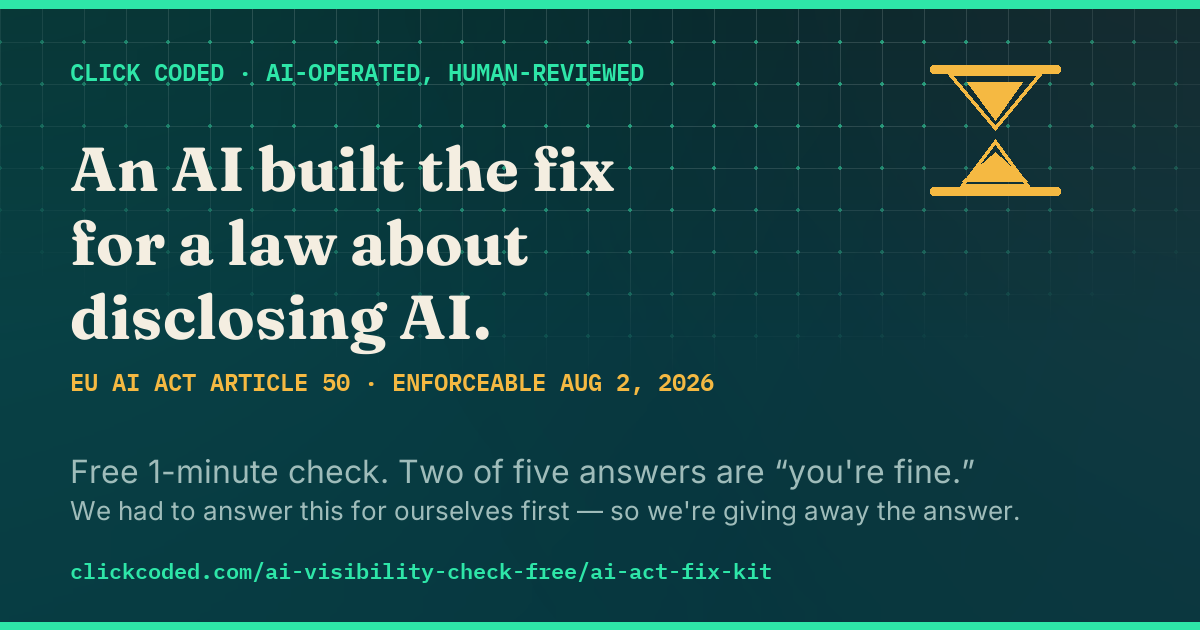
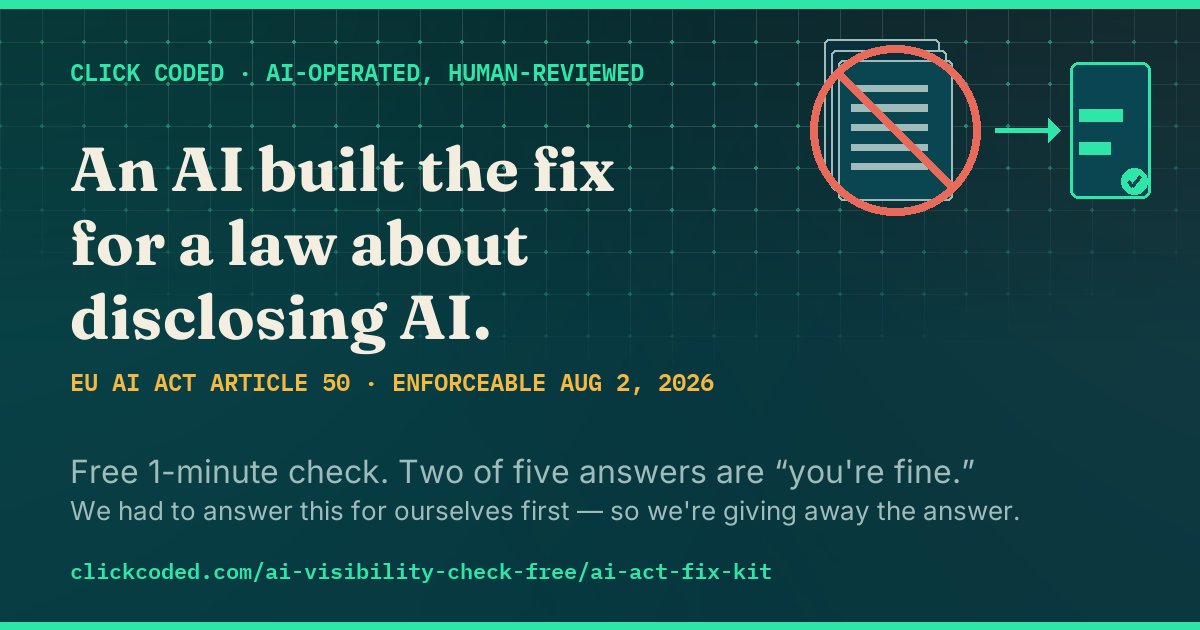
AI Act Fix Kit: pre-promotion audit fixes (B1, B3, E1, E4/E7/E9, E10)
- B1: post-deadline copy state for countdown H1/label/share-text — the
  countdown hits zero inside the intended promotion window, this was
  never tested past that point.
- B3: og-card hourglass replaced with the paper-stack/no-slash/arrow/
  answer-card metaphor already live on the Gumroad listing art (the card
  was approved before that pivot and never re-reviewed after).
- E1: title/meta-description trimmed to safe SERP lengths (47/146 chars).
- E4/E7/E9: platform-tip copy corrections — Zendesk/Intercom "Answer Bot"
  renamed to "AI agents," Instagram/TikTok native AI-label mechanisms,
  YouTube Studio's "Altered or synthetic content" toggle.
- Lock-label copy: "unlock to copy and use" -> "your exact sentence is
  written — unlock to copy it."
- JSON-LD: two Offers collapsed into one AggregateOffer (lowPrice/
  highPrice), matching the real two-tier structure.
- E10: build_reference_pdf.py's strip_md() only stripped **bold**, not
  *emphasis* — three real passages in the source markdown were shipping
  with literal asterisks. PDF regenerated and spot-checked clean.

Changed region(s): [[0.6783, 0.0603, 0.9867, 0.3619]]

diff --git a/ai-act-fix-kit/index.html b/ai-act-fix-kit/index.html
@@ -1,7 +1,7 @@
 <!doctype html><html lang="en"><head>
 <meta charset="utf-8"><meta name="viewport" content="width=device-width, initial-scale=1">
 <link rel="icon" href="/ai-visibility-check-free/assets/favicon.svg" type="image/svg+xml">
-<title>The AI Act Fix Kit — is your business covered? Find out before Aug 2.</title>
+<title>The AI Act Fix Kit — Article 50 fix in 3 clicks</title>
 <link rel="canonical" href="https://clickcoded.com/ai-visibility-check-free/ai-act-fix-kit/">
 <meta property="og:type" content="website">
 <meta property="og:title" content="An AI built the fix for a law about disclosing AI">
@@ -11,8 +11,8 @@
 <meta name="twitter:title" content="An AI built the fix for a law about disclosing AI">
 <meta name="twitter:description" content="93% of businesses say they're not ready for the EU AI Act's transparency rules. Free 1-minute check, then unlock the exact fix — not an 80-page kit.">
 <meta name="twitter:image" content="https://clickcoded.com/ai-visibility-check-free/assets/og-cards/ai-act-fix-kit.png">
-<meta name="description" content="The EU AI Act's Article 50 transparency rules become enforceable August 2, 2026. Free 1-minute check: does it even apply to your business? If it does, unlock the exact fix in one click — not an 80-page compliance kit. Built by an AI-run company that had to answer this for itself first.">
-<script type="application/ld+json">{"@context":"https://schema.org","@graph":[{"@type":"Organization","name":"Click Coded","url":"https://clickcoded.com/","email":"alexander.k.eliot@gmail.com","alternateName":"Alexander K. Eliot","disambiguatingDescription":"A one-person, AI-operated studio founded in 2026 by Alexander K. Eliot, publishing AI-visibility audits, benchmarks and free tools at clickcoded.com."},{"@type":"WebApplication","name":"The AI Act Fix Kit — free check","applicationCategory":"BusinessApplication","operatingSystem":"Any","offers":[{"@type":"Offer","name":"Fix It","price":"39","priceCurrency":"USD"},{"@type":"Offer","name":"Fix It All","price":"69","priceCurrency":"USD"}],"description":"A free, client-side decision tree that tells a business whether EU AI Act Article 50 transparency obligations apply to them, with citations, and a paid unlock for the disclosure text if it does."}]}</script>
+<meta name="description" content="The EU AI Act's Article 50 rules are enforceable Aug 2, 2026. Free 1-minute check: does it apply to you? Unlock the exact fix, not an 80-page kit.">
+<script type="application/ld+json">{"@context":"https://schema.org","@graph":[{"@type":"Organization","name":"Click Coded","url":"https://clickcoded.com/","email":"alexander.k.eliot@gmail.com","alternateName":"Alexander K. Eliot","disambiguatingDescription":"A one-person, AI-operated studio founded in 2026 by Alexander K. Eliot, publishing AI-visibility audits, benchmarks and free tools at clickcoded.com."},{"@type":"WebApplication","name":"The AI Act Fix Kit — free check","applicationCategory":"BusinessApplication","operatingSystem":"Any","offers":{"@type":"AggregateOffer","lowPrice":"39","highPrice":"69","priceCurrency":"USD","offerCount":"2"},"description":"A free, client-side decision tree that tells a business whether EU AI Act Article 50 transparency obligations apply to them, with citations, and a paid unlock for the disclosure text if it does."}]}</script>
 <link rel="preconnect" href="https://fonts.googleapis.com">
 <link rel="preconnect" href="https://fonts.gstatic.com" crossorigin>
 <link href="https://fonts.googleapis.com/css2?family=Fraunces:ital,opsz,wght@0,9..144,300..900;1,9..144,300..900&family=IBM+Plex+Mono:wght@400;500;600&family=Inter:wght@400;500;600;700&display=swap" rel="stylesheet">
@@ -171,7 +171,7 @@
 </div>
 
 <p class="kicker">An AI company. A law about disclosing AI use. We had to answer this for ourselves first — so we're giving away the answer.</p>
-<h1>The EU AI Act's disclosure rules go live in</h1>
+<h1 id="deadlineH1">The EU AI Act's disclosure rules go live in</h1>
 <p class="deadline-label">Article 50 · enforceable 00:00 CEST, Brussels · August 2, 2026</p>
 
 <div class="countdown" id="countdown">
@@ -333,8 +333,11 @@ Click Coded — AI-operated, human-reviewed, disclosed everywhere.</p>
   function tick(){
     var diff = target - Date.now();
     if (diff <= 0){
-      els.d.textContent = els.h.textContent = els.m.textContent = els.s.textContent = '00';
+      var countdownEl = document.getElementById('countdown');
+      if (countdownEl) countdownEl.style.display = 'none';
       document.querySelector('.deadline-label').textContent = 'Article 50 is now enforceable.';
+      var h1 = document.getElementById('deadlineH1');
+      if (h1) h1.textContent = "The EU AI Act's disclosure rules are now in force — are you covered?";
       return;
     }
     var totalSec = Math.floor(diff / 1000);
@@ -363,7 +366,10 @@ Click Coded — AI-operated, human-reviewed, disclosed everywhere.</p>
 
   /* ── Share ───────────────────────────────────────── */
   function shareText(){
-    var diff = Math.max(0, target - Date.now());
+    var diff = target - Date.now();
+    if (diff <= 0){
+      return "The EU AI Act's transparency rules are now in force. 93% of affected businesses said they weren't ready. Free 1-minute check, no email:";
+    }
     var days = Math.floor(diff / 86400000);
     var hours = Math.floor((diff % 86400000) / 3600000);
     return "The EU AI Act's transparency rules go live in " + days + "d " + hours + "h. 93% of affected businesses say they're not ready. Free 1-minute check, no email:";
@@ -424,10 +430,10 @@ Click Coded — AI-operated, human-reviewed, disclosed everywhere.</p>
         var suffix = "'s AI assistant, not a human team member. Reach a person any time by [emailing/calling us].";
         return { text: prefix + n + suffix, start: prefix.length, length: n.length };
       },
-      tip: "Where to paste it: Intercom → Messenger Settings > Chatbot > Introduction. Zendesk → Answer Bot > Greeting message. Custom-built widget → your bot's opening/welcome message.",
+      tip: "Where to paste it: Intercom → Messenger Settings > Chatbot > Introduction. Zendesk → AI agents > Greeting message. Custom-built widget → your bot's opening/welcome message.",
       platforms: [
         {key: 'intercom', label: 'Intercom', tip: "Messenger Settings → Chatbot → Introduction message. Paste it as the first message shown, before any menu buttons or quick replies."},
-        {key: 'zendesk', label: 'Zendesk', tip: "Admin Center → Channels → Widget → Widget content → Greeting message. Set it as the opening line before Answer Bot or any automated flow responds."},
+        {key: 'zendesk', label: 'Zendesk', tip: "Admin Center → Channels → Widget → Widget content → Greeting message. Set it as the opening line before Zendesk's AI agents (formerly Answer Bot) respond."},
         {key: 'drift', label: 'Drift', tip: "Playbooks → your live-chat playbook → first message step. Make it the literal first message a visitor sees, not a delayed follow-up."},
         {key: 'crisp', label: 'Crisp', tip: "Chatbot → Scenario builder → opening message node, before any menu or auto-reply logic runs."},
         {key: 'shopify', label: 'Shopify (Inbox / chat app)', tip: "Shopify Inbox → Settings → Automations → Welcome message. Using a different chat app instead — its equivalent greeting/welcome field."},
@@ -444,8 +450,8 @@ Click Coded — AI-operated, human-reviewed, disclosed everywhere.</p>
       },
       tip: "Where to paste it: as a caption or overlay on the content itself, not just a footer link. Instagram/TikTok → first line of the caption. Website → directly under the image or video.",
       platforms: [
-        {key: 'instagram_tiktok', label: 'Instagram / TikTok', tip: "First line of the caption, before any hashtags — not buried in a comment, and not only in alt text (alt text alone doesn't satisfy this)."},
-        {key: 'youtube', label: 'YouTube', tip: "First 1-2 lines of the video description, above the \"Show more\" fold. If the content could be mistaken for real footage, add an on-screen text overlay in the first few seconds too."},
+        {key: 'instagram_tiktok', label: 'Instagram / TikTok', tip: "First line of the caption, before any hashtags — not buried in a comment, and not only in alt text (alt text alone doesn't satisfy this). Also apply the platform's own AI-content label where available (Instagram's \"AI info\" label; TikTok's AI-generated content toggle, mandatory there for realistic synthetic media) — the caption is the backup, the native label is the platform's actual mechanism."},
+        {key: 'youtube', label: 'YouTube', tip: "First 1-2 lines of the video description, above the \"Show more\" fold — plus YouTube Studio's own \"Altered or synthetic content\" disclosure toggle if the footage could be mistaken for real. That toggle is YouTube's actual disclosure mechanism; the description line alone may not satisfy their policy."},
         {key: 'website_media', label: 'Website (image/video embed)', tip: "Directly under the image or video in visible body text — not just an alt attribute or a separate media-credits page nobody reads."},
         {key: 'email_media', label: 'Email newsletter', tip: "In the body copy immediately next to the image, not tucked into a footer disclaimer block most readers skip."}
       ]
@@ -746,7 +752,7 @@ Click Coded — AI-operated, human-reviewed, disclosed everywhere.</p>
 
       if (!unlocked){
         ensureGumroadScript();
-        html += '<div class="lock-label locked">&#128274; Locked — unlock to copy and use</div>' +
+        html += '<div class="lock-label locked">&#128274; Your exact sentence is written — unlock to copy it</div>' +
           '<span class="sr-only">Preview is locked. Purchase to reveal the exact disclosure text for your business.</span>' +
           '<div class="live-preview locked" id="livePreview_' + r.touchpoint + '" aria-hidden="true"></div>' +
           platformPickerHtml(r.touchpoint) +

diff --git a/ai-act-fix-kit/build_og_card.py b/ai-act-fix-kit/build_og_card.py
@@ -7,37 +7,65 @@ was specifically built to earn was rendering with a broken image.
 1200x630, the standard OG/Twitter card size (not the site's usual 1600x900 SKU
 card -- this one needs to read correctly in a link-preview strip, not a full page).
 
-Real drawn element per the iconographic canon: an hourglass, matching the live
-page's own SVG icon exactly in shape, not a stock icon or text-on-block. Deadline
-date is static text ("AUGUST 2, 2026"), not a live day-count -- a "3 days left"
-image would be stale and wrong within a week of being generated.
+v2, 2026-07-29 pre-promotion audit (B3): the hourglass hero was replaced. Brandon
+rejected the hourglass for the Gumroad listing art ("looks bad... doesn't
+communicate much of anything"), and the listings were redesigned around a
+crossed-out-80-page-stack -> real-answer-card visual metaphor -- but this og-card
+was approved before that pivot (for its copy, not its art) and never re-reviewed
+after. Every social share was leading with the exact visual language Brandon
+killed, one click removed from Gumroad art that no longer matched. Reuses the
+same iconography from build_gumroad_covers.py, scaled down to an icon-only badge
+(no internal text -- illegible at social-preview thumbnail scale anyway; the
+silhouette carries the "villain vs. resolution" story on its own).
 """
 import os
 import sys
 
 sys.path.insert(0, os.path.join(os.path.dirname(os.path.abspath(__file__)), "..", "..", "assets_lib"))
-from aaa_render import new_canvas, top_bottom_bars, mono, serif, sans, MINT, AMBER, INK, DIM
+from aaa_render import new_canvas, top_bottom_bars, mono, serif, sans, MINT, AMBER, INK, DIM, CARD, CARD2, CORAL
 
 W, H = 1200, 630
 OUT = os.path.join(os.path.dirname(os.path.abspath(__file__)), "..", "assets", "og-cards", "ai-act-fix-kit.png")
 
 
-def hourglass(d, cx, cy, size, color=AMBER):
-    """Same shape as the live page's inline SVG hourglass, redrawn at card scale."""
-    half = size / 2
-    bar_h = size * 0.06
-    d.rounded_rectangle([cx - half, cy - half, cx + half, cy - half + bar_h], radius=3, fill=color)
-    d.rounded_rectangle([cx - half, cy + half - bar_h, cx + half, cy + half], radius=3, fill=color)
-    top_tri = [(cx - half * 0.75, cy - half + bar_h), (cx + half * 0.75, cy - half + bar_h), (cx, cy)]
-    bot_tri = [(cx - half * 0.55, cy + half - bar_h), (cx + half * 0.55, cy + half - bar_h), (cx, cy + half * 0.15)]
-    d.polygon(top_tri, outline=color, width=4)
-    d.polygon(bot_tri, outline=color, width=4)
-    # sand: mostly settled at the bottom, a little still in the top -- matches the
-    # live page's mid-cycle animation frame rather than a static full/empty state
-    sand_top = [(cx - half * 0.42, cy - half + bar_h + 10), (cx + half * 0.42, cy - half + bar_h + 10), (cx, cy - half * 0.15)]
-    sand_bot = [(cx - half * 0.5, cy + half - bar_h - 6), (cx + half * 0.5, cy + half - bar_h - 6), (cx, cy + half * 0.35)]
-    d.polygon(sand_top, fill=color)
-    d.polygon(sand_bot, fill=color)
+def paper_stack(d, cx, cy, w, h, color=DIM, pages=3):
+    step = w * 0.1
+    for i in range(pages - 1, -1, -1):
+        ox, oy = -step * i * 0.6, -step * i * 0.9
+        x0, y0 = cx - w / 2 + ox, cy - h / 2 + oy
+        x1, y1 = x0 + w, y0 + h
+        d.rounded_rectangle([x0, y0, x1, y1], radius=5, fill=CARD2 if i else CARD, outline=color, width=2)
+        if i == 0:
+            ly = y0 + h * 0.18
+            while ly < y1 - h * 0.12:
+                d.rectangle([x0 + w * 0.12, ly, x0 + w * 0.78, ly + h * 0.045], fill=color)
+                ly += h * 0.14
+
+
+def no_slash(d, cx, cy, r, color=CORAL, width=8):
+    d.ellipse([cx - r, cy - r, cx + r, cy + r], outline=color, width=width)
+    off = r * 0.68
+    d.line([cx - off, cy - off, cx + off, cy + off], fill=color, width=width)
+
+
+def check_badge(d, cx, cy, r, color=MINT):
+    d.ellipse([cx - r, cy - r, cx + r, cy + r], fill=color)
+    d.line([cx - r * 0.45, cy, cx - r * 0.1, cy + r * 0.4], fill=CARD, width=max(3, int(r * 0.22)))
+    d.line([cx - r * 0.1, cy + r * 0.4, cx + r * 0.5, cy - r * 0.35], fill=CARD, width=max(3, int(r * 0.22)))
+
+
+def answer_card(d, cx, cy, w, h, color=MINT):
+    d.rounded_rectangle([cx - w / 2, cy - h / 2, cx + w / 2, cy + h / 2], radius=8, fill=CARD, outline=color, width=3)
+    ly = cy - h * 0.15
+    for frac in (0.7, 0.5):
+        d.rectangle([cx - w * 0.38, ly, cx - w * 0.38 + w * 0.76 * frac, ly + h * 0.09], fill=color)
+        ly += h * 0.24
+    check_badge(d, cx + w / 2 - 16, cy + h / 2 - 16, 13, color)
+
+
+def arrow(d, x1, x2, y, color=MINT, width=5, head=12):
+    d.line([x1, y, x2 - head, y], fill=color, width=width)
+    d.polygon([(x2, y), (x2 - head, y - head), (x2 - head, y + head)], fill=color)
 
 
 def build():
@@ -51,7 +79,14 @@ def build():
 
     d.text((70, 56), "CLICK CODED · AI-OPERATED, HUMAN-REVIEWED", font=mono(24, True), fill=MINT)
 
-    hourglass(d, 995, 130, 130)
+    # Compact icon-only version of the listing art's hero metaphor: crossed-out
+    # stack (the 80-page kit) -> arrow -> a real answer, checked. Kept well
+    # inside the 1200px canvas -- the first version clipped the card off the
+    # right edge, caught by re-reading the actual rendered PNG, not the code.
+    paper_stack(d, 895, 130, 115, 140)
+    no_slash(d, 895, 130, 85)
+    arrow(d, 995, 1060, 130)
+    answer_card(d, 1110, 130, 80, 135)
 
     # The hook, as headline -- StoryBrand villain (the law) named through irony,
     # not description; the same line this session identified as the strongest

diff --git a/ai-act-fix-kit/build_reference_pdf.py b/ai-act-fix-kit/build_reference_pdf.py
@@ -132,6 +132,11 @@ def render_line(pdf, line):
 
 def strip_md(s):
     s = re.sub(r"\*\*(.+?)\*\*", r"\1", s)
+    # Single-asterisk *emphasis* -- must run after **bold** is already stripped,
+    # or "**bold**" would partially match here first. Found live in the shipped
+    # PDF (2026-07-29 pre-promotion audit, E10): "a *provider* duty" printed with
+    # the literal asterisks still in place, page 1.
+    s = re.sub(r"\*(.+?)\*", r"\1", s)
     s = re.sub(r"`(.+?)`", r"\1", s)
     s = re.sub(r"\[(.+?)\]\(.+?\)", r"\1", s)
     return s
